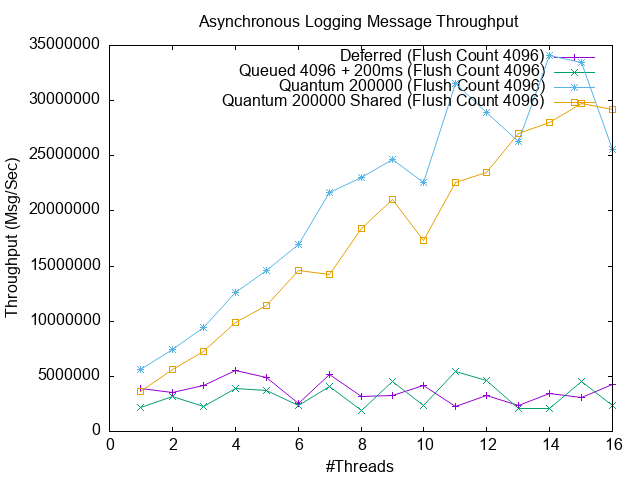
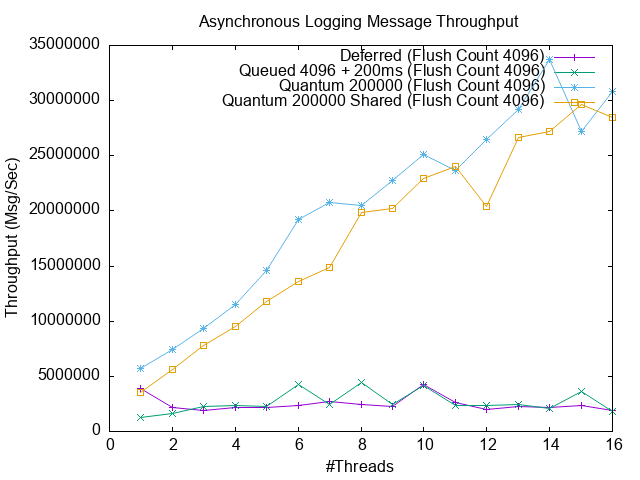
Fixed queued log target benchmark

diff --git a/src/elog_bench/src/elog_bench.cpp b/src/elog_bench/src/elog_bench.cpp
@@ -395,7 +395,7 @@ void testPerfDeferredFile() {
 void testPerfQueuedFile() {
     const char* cfg =
         "file://./bench_data/"
-        "elog_bench_queued.log?flush_policy=count&flush-count=4096&queue-batch-size=4096&queue-"
+        "elog_bench_queued.log?flush_policy=count&flush-count=4096&queue-batch-size=10000&queue-"
         "timeout-millis=200";
     runMultiThreadTest("Queued 4096 + 200ms (Flush Count 4096)", "elog_bench_queued", cfg);
 }
@@ -511,7 +511,10 @@ void testPerfSTDeferredCount4096(std::vector<double>& msgThroughput,
 
 void testPerfSTQueuedCount4096(std::vector<double>& msgThroughput,
                                std::vector<double>& ioThroughput) {
-    const char* cfg = "file://./bench_data/elog_bench_queued_st.log?flush_policy=immediate";
+    const char* cfg =
+        "file://./bench_data/"
+        "elog_bench_queued_st.log?flush_policy=count&flush-count=4096&queue-batch-size=10000&queue-"
+        "timeout-millis=500";
     double msgPerf = 0.0f;
     double ioPerf = 0.0f;
     runSingleThreadedTest("Queued", cfg, msgPerf, ioPerf);

diff --git a/README.md b/README.md
@@ -695,9 +695,10 @@ The following table summarizes the main KPIs of the ELog library:
 | Shared Logger Latency (no log issued) | 1.3 nano-seconds |
 | Synchronous Logging Throughput (flush each message) | 163444 Msg/Sec |
 | Synchronous Logging Throughput (delayed flush) | 2.4 Million Msg/Sec |
-| Asynchronous Logging Throughput* (single-threaded) | 5.8 Million Msg/Sec |
+| Asynchronous Logging Throughput* (single-threaded) | 6.4 Million Msg/Sec |
+| Asynchronous Logging Latency (single-threaded) | 156 nano-seconds |
 
-NOTE: Asynchronous logging throughput refers to the logger's capacity to push messages, not to the throughput of disk writing.
+NOTE: Asynchronous logging throughput refers to the logger's capacity to push messages to the end log target, not to the throughput of disk writing.
 
 ### Empty Logging Benchmark
 
@@ -763,9 +764,9 @@ In other words, this actually illustrates the logger latency when using asynchro
 
 Points to note:
 
-- The deferred log target can receive 4.1 Million messages per second, that is an average latency of 243 nano-seconds per message
-- The quantum log target can receive 5.8 Million messages per second, that is an average latency of 172 nano-seconds per message
-- The queued log target seems to have a performance problem that requires further investigation
+- The deferred log target can receive 4.2 Million messages per second, that is an average latency of 238 nano-seconds per message
+- The quantum log target can receive 6.4 Million messages per second, that is an average latency of 156 nano-seconds per message
+- The queued log target can receive 1.6 Million messages per second, and requires further investigation
 
 All asynchronous loggers were configured with generous buffer sizes for testing peak performance.  
 In reality this measures the peak performance during a log message burst.  
